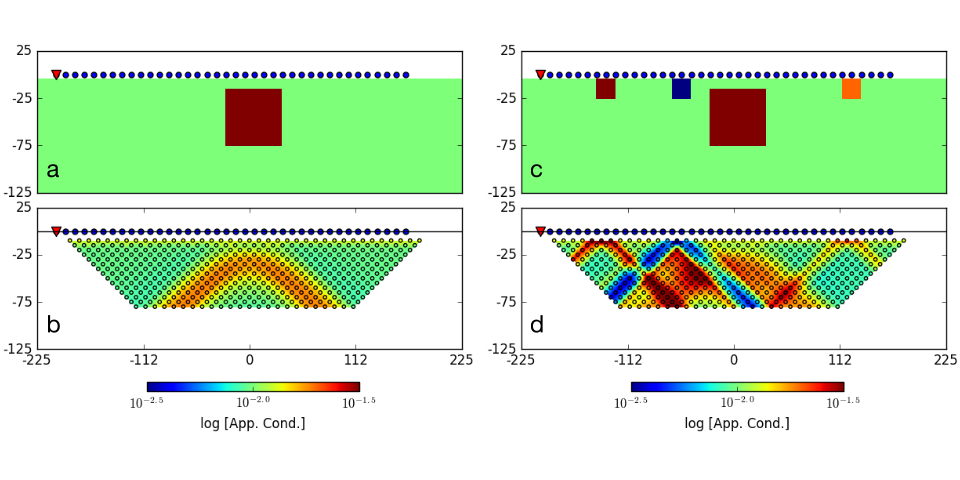
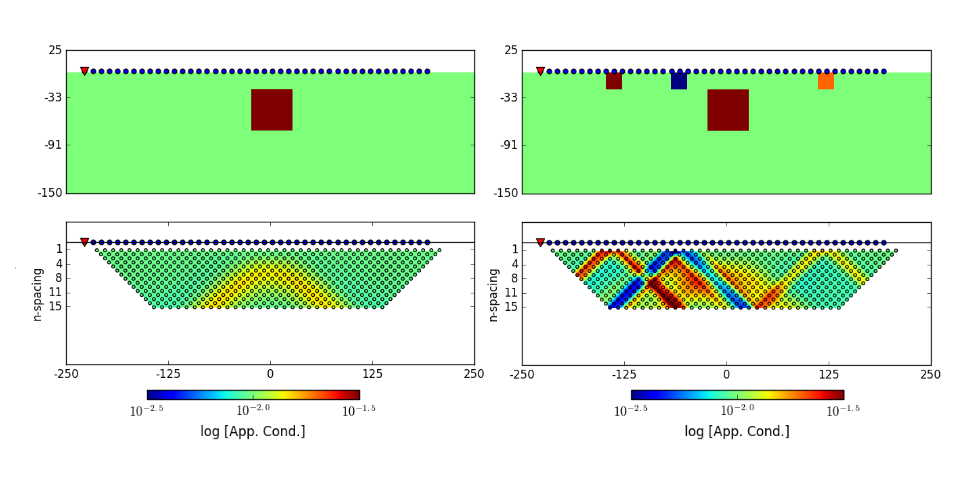
Update pseudo-section with n-spacing. More fixes

Changed region(s): [[0.0, 0.0938, 1.0, 0.9062], [0.625, 0.8438, 0.6562, 0.875]]

diff --git a/content/geophysical_surveys/dcr/data.rst b/content/geophysical_surveys/dcr/data.rst
@@ -7,7 +7,7 @@ Data
 
    To show how measured voltages are converted to apparent resistivity and plotted as a sounding curve or as a pseudo-section. 
 
-A general DC resistivity survey setup is outlined in (:numref:`dcr_Schlumberger_array`). A current generator is attached to the :math:`A`, (positive) and :math: `B` (negative)electrodes and a current of magnitude :math:`I` is injected. M and N are the potential electrodes. The nominclature for referring to the distance between any two electrodes is denoted by r with appropriate subscripts. The electrodes can be deployed anywhere on the surface of the earth or inside and they do not have to be co-linear. 
+A general DC resistivity survey setup is outlined in (:numref:`dcr_Schlumberger_array`). A current generator is attached to the :math:`A`, (positive) and :math:`B` (negative)electrodes and a current of magnitude :math:`I` is injected. M and N are the potential electrodes. The nominclature for referring to the distance between any two electrodes is denoted by r with appropriate subscripts. The electrodes can be deployed anywhere on the surface, or inside, the earth and they do not have to be co-linear. 
 
 .. figure:: ./images/DCR_Gradient-Schlumberger_Array.svg
 	:name: dcr_Schlumberger_array
@@ -18,8 +18,8 @@ A general DC resistivity survey setup is outlined in (:numref:`dcr_Schlumberger_
 
 Measured potential differences
 ------------------------------
-The flow of currents in the ground cause charges to be built up on  interfaces between regions of differing conductivity 
-Link :ref:`DC Resistivity: Physics page <dcr_physics>`. These charges contribute to the measured potential differences. 
+The flow of currents in the ground causes charges to be built up on  interfaces between regions of differing conductivity. 
+These charges contribute to the measured potential difference. 
 
 In a uniform halfspace, the measured potential 
 difference is given by the following expression:
@@ -41,22 +41,17 @@ Calculating apparent resistivity
 The measured voltages are numbers that can vary greatly in amplitude and they provide no direct insight about the structures at depth. As shown above, the potential difference is primarily dependent upon the geometry of the electrodes. By rearranging that formula we can recover the true resistivity
 
 .. math::
-		\rho_a = \frac{\Delta V}{IG}
+		\rho = \frac{\Delta V}{IG}
 
-When the earth is really a halfspace any DCR datum is sufficient to evaluate the halfspace resistivity. 
-
-
-In general the earth structure is complicated but we can still eliminate the geometrical factor and define 
+When the earth is a halfspace any DCR datum is sufficient to evaluate the halfspace resistivity. 
+For field data, it is still useful to eliminate the geometrical factor and define
 
 .. math::
 		\rho_a = \frac{\Delta V}{IG}
 
 We refer :math:`\rho_a` as the *apparent resistivity* and it is understood to be the resistivity of a halfspace which produces the observed potential measured by a particular electrode geometry. Apparent resistivity is equal the earth’s true resistivity *only* when 
 the earth is a uniform halfspace. When the earth is more complicated, the measured 
-apparent resistivity will lie between the maximum and the minimum of the true resistivities. This conversion is extremely valuable for plotting data and making first pass assessments about the subsurface.
- 
-
-If apparent conductivity is preferred,  
+apparent resistivity will lie between the maximum and the minimum of the true resistivities. This conversion is extremely valuable for plotting data and making first pass assessments about the subsurface. If apparent conductivity is preferred,  
 
 .. math::
 		\sigma_a = \frac{1}{\rho_a} = \frac{IG}{\Delta V}
@@ -89,10 +84,10 @@ resistivity of layers (See Table below).
 Pseudo-section
 **************
 Pseudo-sections are often used to visualize data from 2D profiles. To account for the fact 
-that measurements with larger electrode separations sample deeper portions of the earth, 45 
+that measurements with larger electrode separations sample deeper portions of the earth, lines at :math:`45^\circ` 
 degree angles are drawn from the mid-points of the current and potential electrode pairs and 
 the datum is plotted at the intersection of these lines. In cases where a pole transmitter 
-or receiver is used the 45 degree angles are drawn directly from the electrode location. 
+or receiver is used the 45 lines are drawn directly from the electrode location. 
 The figure below shows how an apparent resistivity pseudo-section is built up for a simple 
 dipole-dipole profile. 
 

diff --git a/content/geophysical_surveys/dcr/interpretation.rst b/content/geophysical_surveys/dcr/interpretation.rst
@@ -13,9 +13,9 @@ Interpretation
 Apparent Conductivities
 -----------------------
 
-Plotting apparent Conductivities, as pseudosections or in plan-view maps, are informative. The images are useful for  recognizing data `outliers`, bad electrodes, and validating normalizations that might have been applied to the data. In addition, they sometimes provide valuable information about possible structure. 
+Plotting apparent conductivities, as pseudosections or in plan-view maps, is informative. The images are useful for  recognizing data `outliers`, bad electrodes, and validating normalizations that might have been applied to the data. In addition, they sometimes provide valuable information about possible structure. 
 
-As an illustration, :numref:`DCR_DpDp_Simple` (a) shows an earth model consisting of a single prism (:math:`\sigma=0.1` S/m) buried in a uniform halfspace (:math:`\sigma=0.01` S/m). A dipole-dipole survey is carried out directly above the conductive prism. The resulting pseudosection is shown in :numref:`DCR_DpDp_Simple` (b). The prism is manifested as a region of lower resistivity at in the center of the image and has `wings` extending outwards and downward. The apex of the image can be used to estimate the horizontal location of the prism but the depth to the body, is less evident since the vertical scale of the pseudosection is in `n-values` and not in meters. This example can be download :ref:`here<dcr_synthetics>`
+As an illustration, :numref:`DCR_DpDp_Simple` (a) shows an earth model consisting of a single prism (:math:`\sigma=0.1` S/m) buried in a uniform halfspace (:math:`\sigma=0.01` S/m). A dipole-dipole survey is carried out directly above the conductive prism. The resulting pseudosection is shown in :numref:`DCR_DpDp_Simple` (b). The prism is manifested as a region of lower resistivity in the center of the image and has `wings` extending outwards and downward. The apex of the image can be used to estimate the horizontal location of the prism but the depth to the body is less evident since the vertical scale of the pseudosection is in `n-values` and not in meters. This example can be download :ref:`here<dcr_synthetics>`
 
 Despite the above success, the situation worsens if the earth is more complex. This is illustrated in :numref:`DCR_DpDp_Simple` (c) where some near-surface inhomogeneities are added. The same dipole-dipole survey is carried out and resultant pseudosection is shown in :numref:`DCR_DpDp_Simple` (d). The response of the prism is masked and attempting to infer existence and location of the prism is extremely challenging. 
 
